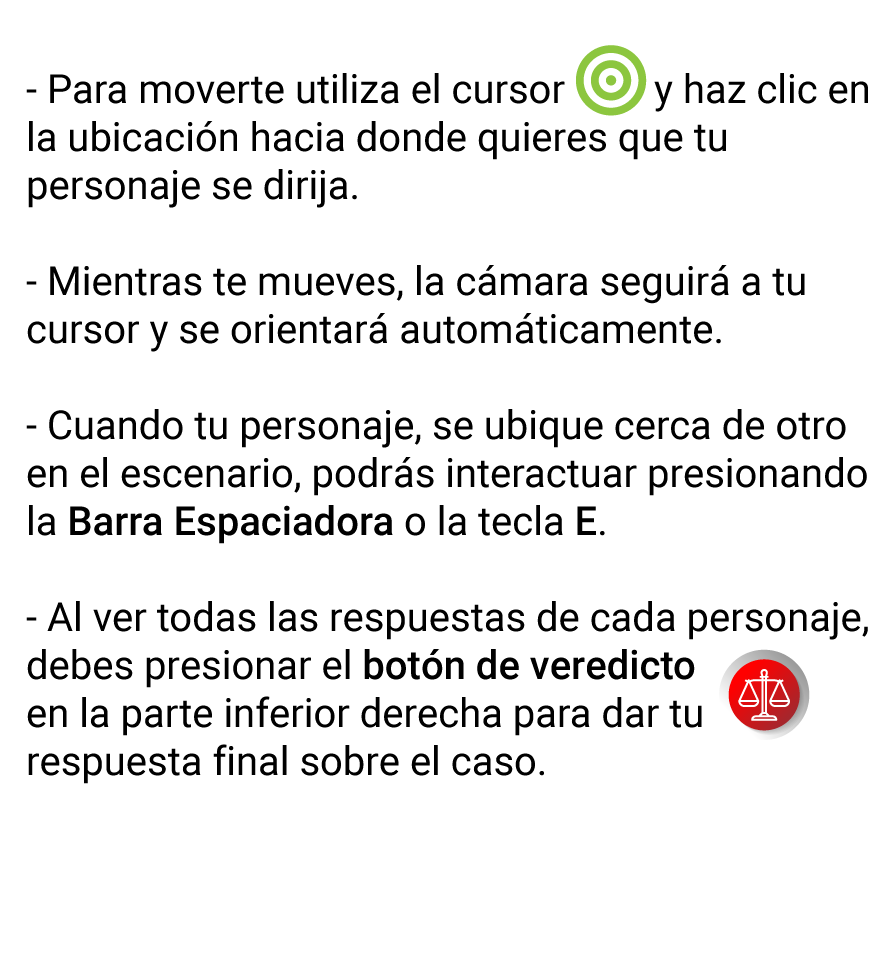
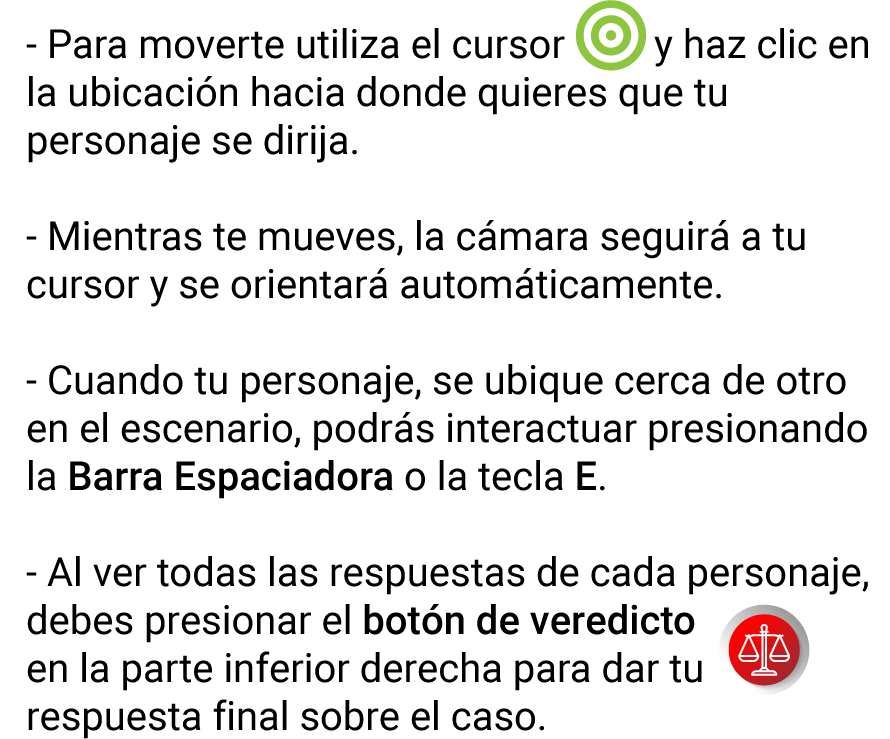
mejorando instrucciones

Changed region(s): [[0.0303, 0.2801, 0.9708, 1.0], [0.0303, 0.0, 1.0, 0.2179]]

diff --git a/src/app/pages/instrucciones/instrucciones.component.html b/src/app/pages/instrucciones/instrucciones.component.html
@@ -1,17 +1,21 @@
+<div class="bg-img" style="background-image: url(/assets/imgs/ui/SALFA_UI_INSTRUCCIONES.png),url(/assets/imgs/ui/SALFA_UI_BACK-DER.png);">
+    <div class="container">
+        <div class="left-area">
 
-<div class="main">
-    <div class="img-container">
-        <img src="/assets/imgs/ui/SALFA_UI_INSTRUCCIONES.png" alt="">
-    </div>
-    
-    <div *ngIf="instrucciones === 1" class="img-text-container">
-        <img src="/assets/imgs/ui/SALFA_UI_TXT_AYUDA.png" alt="" class="text">
-    </div>
+        </div>
+        <div class="right-area">
+            <div *ngIf="instrucciones === 1" class="img-text-container">
+                <img src="/assets/imgs/ui/SALFA_UI_TXT_AYUDA.png" class="responsive-img" alt="">
+            </div>
 
-    <div *ngIf="instrucciones !== 1" class="text-container">
-                <p>En esta actividad aprenderás a identificar delitos descritos en la Ley Nº20.393, los que pueden ser tremendamente perjudiciales para SALFA y todos sus colaboradores.
-                    Para lograrlo, te invitamos a que resuelvas 3 escenarios con casos de delitos en instalaciones de SALFA: <br><br>
+            <div *ngIf="instrucciones !== 1" class="text-container">
+                <p>En esta actividad aprenderás a identificar delitos descritos en la Ley Nº20.393, los que pueden ser
+                    tremendamente perjudiciales para SALFA y todos sus colaboradores.
+                    Para lograrlo, te invitamos a que resuelvas 3 escenarios con casos de delitos en instalaciones de
+                    SALFA: <br><br>
                     Pon mucha atención a las pistas y resuelve todos los casos.</p>
+            </div>
+        </div>
     </div>
-    <app-footer (click)="onClick()"></app-footer>
+    <app-footer (action)="onAction($event)"></app-footer>
 </div>

diff --git a/src/app/pages/instrucciones/instrucciones.component.scss b/src/app/pages/instrucciones/instrucciones.component.scss
@@ -1,42 +1,12 @@
-.main{
-    display: flex;
-    .img-container{
-        max-height: fit-content;
-        max-width: fit-content;
-        width: 150%;
-        img{
-            height: 100%;
-            max-width: 200%;
-        }
-    }
-    .img-text-container{
-        img{
-            @media (max-width: 950px){
-                right: 0;
-                width: 20rem;
-            }
-            position: absolute;
-            right: 5%;
-            top: 10%;
-            width: 30rem;
-            max-width: fit-content;
-        }
-    }
-    .text-container{
-        text-align: start;
-        p{
-            @media (max-width: 1050px){
-                margin-left:40% ;
-            }
-            margin: 20%;
-            line-height: 2rem;
-            font-size: large;
-        }
-    }
+.responsive-img {
+    max-width: 40vw;
+    width: 100%;
+}
 
-    app-footer{
-        position: absolute;
-        bottom: 0;
-        right: 0;
-    }
+.text-container {
+    font-size: 4vh;
+}
+
+.right-area {
+    padding-top: 10vh;
 }

diff --git a/src/app/pages/instrucciones/instrucciones.component.css b/src/app/pages/instrucciones/instrucciones.component.css
@@ -1,43 +1,10 @@
-.main {
-  display: flex;
+.responsive-img {
+  max-width: 40vw;
+  width: 100%;
 }
-.main .img-container {
-  max-height: fit-content;
-  max-width: fit-content;
-  width: 150%;
+.text-container {
+  font-size: 4vh;
 }
-.main .img-container img {
-  height: 100%;
-  max-width: 200%;
-}
-.main .img-text-container img {
-  position: absolute;
-  right: 5%;
-  top: 10%;
-  width: 30rem;
-  max-width: fit-content;
-}
-@media (max-width: 950px) {
-  .main .img-text-container img {
-    right: 0;
-    width: 20rem;
-  }
-}
-.main .text-container {
-  text-align: start;
-}
-.main .text-container p {
-  margin: 20%;
-  line-height: 2rem;
-  font-size: large;
-}
-@media (max-width: 1050px) {
-  .main .text-container p {
-    margin-left: 40%;
-  }
-}
-.main app-footer {
-  position: absolute;
-  bottom: 0;
-  right: 0;
+.right-area {
+  padding-top: 10vh;
 }

diff --git a/src/app/components/footer/footer.component.ts b/src/app/components/footer/footer.component.ts
@@ -1,4 +1,4 @@
-import { Component, OnInit } from '@angular/core';
+import { Component, EventEmitter, OnInit, Output } from '@angular/core';
 import { Router } from '@angular/router';
 
 @Component({
@@ -8,6 +8,7 @@ import { Router } from '@angular/router';
 })
 export class FooterComponent implements OnInit {
 
+    @Output() action: EventEmitter<any> = new EventEmitter()
     url: string
     continuar: boolean
     comenzar: boolean
@@ -38,8 +39,8 @@ export class FooterComponent implements OnInit {
         }
         if(this.url === '/personajes') {
             this.router.navigate(['/instrucciones'])
-        } else {
-            console.log(this.url)
+        } if(this.url === '/instrucciones') {
+            this.action.emit('next')
         }
     }
 }

diff --git a/src/app/pages/instrucciones/instrucciones.component.ts b/src/app/pages/instrucciones/instrucciones.component.ts
@@ -18,8 +18,11 @@ export class InstruccionesComponent implements OnInit {
     this.instrucciones = 1;
   }
 
-  onClick(){
-    this.instrucciones++ ;
+  onAction(event){
+    if(event === 'next'){
+      this.instrucciones++ ;
+    }
+    
   }
   
 }

diff --git a/src/app/components/footer/footer.component.scss b/src/app/components/footer/footer.component.scss
@@ -26,4 +26,5 @@
 .comenzar-off,
 .comenzar-hover {
     position: absolute;
+    cursor: pointer;
 }

diff --git a/src/app/components/footer/footer.component.css b/src/app/components/footer/footer.component.css
@@ -24,4 +24,5 @@
 .comenzar-off,
 .comenzar-hover {
   position: absolute;
+  cursor: pointer;
 }
